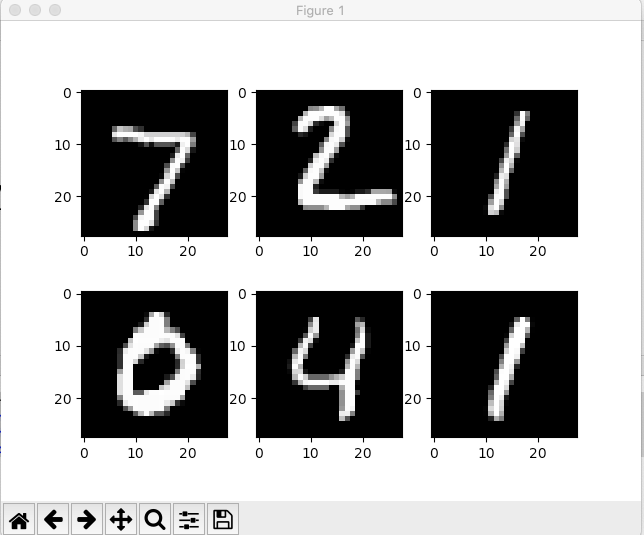
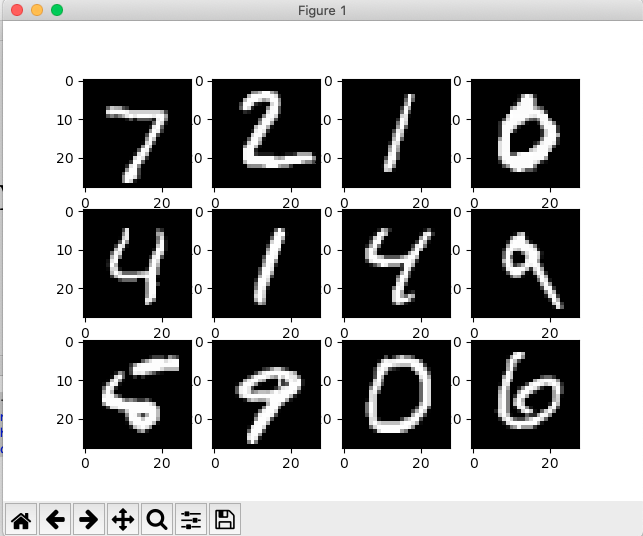
add 14

diff --git a/scripts/13_tensor_feed_froward_NN.py b/scripts/13_tensor_feed_froward_NN.py
@@ -10,10 +10,6 @@ print("-" * 80)
 print("-" * 80)
 print("\n" * 2)
 
-# 0m - intro to gradients
-# 1m - theory - chain rule
-# 2m - computational graph
-# etc
 
 import torch
 import torch.nn as nn
@@ -29,19 +25,32 @@ import matplotlib.pyplot as plt
 # Training Loop
 # Model Evaluation
 # GPU support
+# 1m30 - Hyperparameters
+# 3m15 - Load data
+# 6m20 - Test loading working
+# 8m40 - NN class
+# 10m10 - Multilayer NN Activation function
+# 12m - Loss & optimizer
+# 12m40 - Training loop
+#
+#
+#
+#
+
 
 device = torch.device('cuda' if torch.cuda.is_available() else 'cpu')
 print(f"\n device \n{ device }")
 
-# Hyper-parameters
-input_size = 784 # images 28x28
-hidden_size = 500
+# Hyper-parameters - 1m30
+input_size = 784            # images 28x28
+hidden_size = 100 # 500
 num_classes = 10
 num_epochs = 2
 batch_size = 100
 learning_rate = 0.001
 
-# MNIST dataset
+# Dataloader, Transformation
+# MNIST dataset - download data unless local copy already present
 train_dataset = torchvision.datasets.MNIST(root='./data',
                                            train=True,
                                            transform=transforms.ToTensor(),
@@ -62,19 +71,109 @@ test_loader = torch.utils.data.DataLoader(dataset=test_dataset,
 
 examples = iter(test_loader)
 example_data, example_targets = examples.next()
+print(f"\n example_data \n{ example_data }")
+#  example_data - guessing 0 is black!
+# tensor([[[[0., 0., 0.,  ..., 0., 0., 0.],
+#           [0., 0., 0.,  ..., 0., 0., 0.],
+#           [0., 0., 0.,  ..., 0., 0., 0.],
+#           ...,
+#           [0., 0., 0.,  ..., 0., 0., 0.],
+#           [0., 0., 0.,  ..., 0., 0., 0.],
+#           [0., 0., 0.,  ..., 0., 0., 0.]]],
 
-for i in range(6):
-    plt.subplot(2,3,i+1)
-    plt.imshow(example_data[i][0], cmap='gray')
-plt.show()
+print(f"\n example_targets \n{ example_targets }")
+#  example_targets
+# tensor([7, 2, 1, 0, 4, 1, 4, 9, 5, 9, 0, 6, 9, 0, 1, 5, 9, 7, 3, 4, 9, 6, 6, 5,
+#         4, 0, 7, 4, 0, 1, 3, 1, 3, 4, 7, 2, 7, 1, 2, 1, 1, 7, 4, 2, 3, 5, 1, 2,
+#         4, 4, 6, 3, 5, 5, 6, 0, 4, 1, 9, 5, 7, 8, 9, 3, 7, 4, 6, 4, 3, 0, 7, 0,
+#         2, 9, 1, 7, 3, 2, 9, 7, 7, 6, 2, 7, 8, 4, 7, 3, 6, 1, 3, 6, 9, 3, 1, 4,
+#         1, 7, 6, 9])
+
+print(f"\n example_data.shape \n{ example_data.shape }")
+#  example_data.shape
+# torch.Size([100, 1, 28, 28])      # 100 images, 1 channel (no colour data), image 28x28
+
+print(f"\n example_targets.shape \n{ example_targets.shape }")
+#  example_targets.shape
+# torch.Size([100])
+
+
+# check data
+# for i in range(12):
+#     plt.subplot(3,4,i+1)                            # 3 rows x 4 cols, index i+1
+#     plt.imshow(example_data[i][0], cmap='gray')
+#plt.show()
+
+
+# 8m40 - NN class
+class NeuralNet(nn.Module):
+    '''
+    input_size      tensor dimensions? or number of training elements 28x28 = 784
+    hidden_size     number of hidden layers?
+    num_classes     number of output classifications 0-9 10 in total
+    '''
+    # define model layers
+    def __init__(self, input_size, hidden_size, num_classes):
+        super(NeuralNet, self).__init__()
+        self.l1 = nn.Linear(input_size, hidden_size)
+        self.relu = nn.ReLU()
+        self.l2 - nn.Linear(hidden_size, num_classes)
+        # nn.Linear - layers
+        # https://pytorch.org/docs/stable/nn.html#linear-layers
+        # https://pytorch.org/docs/stable/generated/torch.nn.Linear.html#torch.nn.Linear
+        #
+        # nn.ReLU - Non-linear Activations (weighted sum, nonlinearity)
+        # https://pytorch.org/docs/stable/nn.html#non-linear-activations-weighted-sum-nonlinearity
+        # https://pytorch.org/docs/stable/generated/torch.nn.ReLU.html#torch.nn.ReLU
+
+    # 10m10 - Multilayer NN Activation function
+    # forward pass functionality
+    def forward(self, x):
+        out = self.l1(x)
+        out = self.relu(out)
+        out = self.l2(out)
+        # softmax would be applied here but will be using Cross-Entropy - 10m45
+        return out                                                    #
+                                                                      #
+# create model                                                        #
+model = NeuralNet(input_size, hidden_size, num_classes)               #
+                                                                      #
+# 12m - Loss & Optimiser                                              #
+criterion = nn.CrossEntropyLoss()   # < this applies softmax for us <<#
+optimizer = torch.optim.Adam(model.parameters(), lr=learning_rate)
+
+# 12m40 - Training loop
+n_total_steps = len(train_loader)
+
+for epoch in range(num_epochs):
+    for i, (images, labels) in enumerate(train_loader):
+        # origin shape: [100, 1, 28, 28]
+        # resized: [100, 784]
+        images = images.reshape(-1, 28*28).to(device)
+        labels = labels.to(device)
+
+        # Forward pass
+        outputs = model(images)
+        loss = criterion(outputs, labels)
+
+        # Backward and optimize
+        optimizer.zero_grad()
+        loss.backward()
+        optimizer.step()
+
+        if (i+1) % 100 == 0:
+            print (f'Epoch [{epoch+1}/{num_epochs}], Step [{i+1}/{n_total_steps}], Loss: {loss.item():.4f}')
+
+
+
+
 
 #print(f"\n  \n{  }")
 
 
-# MNIST
-# Dataloader, Transformation
-# Multilayer NN Activation function
-# Loss & Optimiser
+
+
+
 # Training Loop
 # Model Evaluation
 # GPU support

diff --git a/scripts/14_tensor_cnn.py b/scripts/14_tensor_cnn.py
@@ -1,0 +1,26 @@
+#! /usr/bin/env python
+
+# PyTorch Tutorial 14 - Convolutional Neural Network (CNN)
+# https://www.youtube.com/watch?v=pDdP0TFzsoQ&list=PLqnslRFeH2UrcDBWF5mfPGpqQDSta6VK4&index=14
+
+#from __future__ import print_function
+import torch
+print("\n" * 20)
+print("-" * 80)
+print("-" * 80)
+print("\n" * 2)
+
+# 0m - CNN Theory overview
+# 4m - Code start
+#
+#
+#
+#
+#
+#
+
+
+#print(f"\n  \n{  }")
+
+#print(f"\n  \n{  }")
+print('\n')
